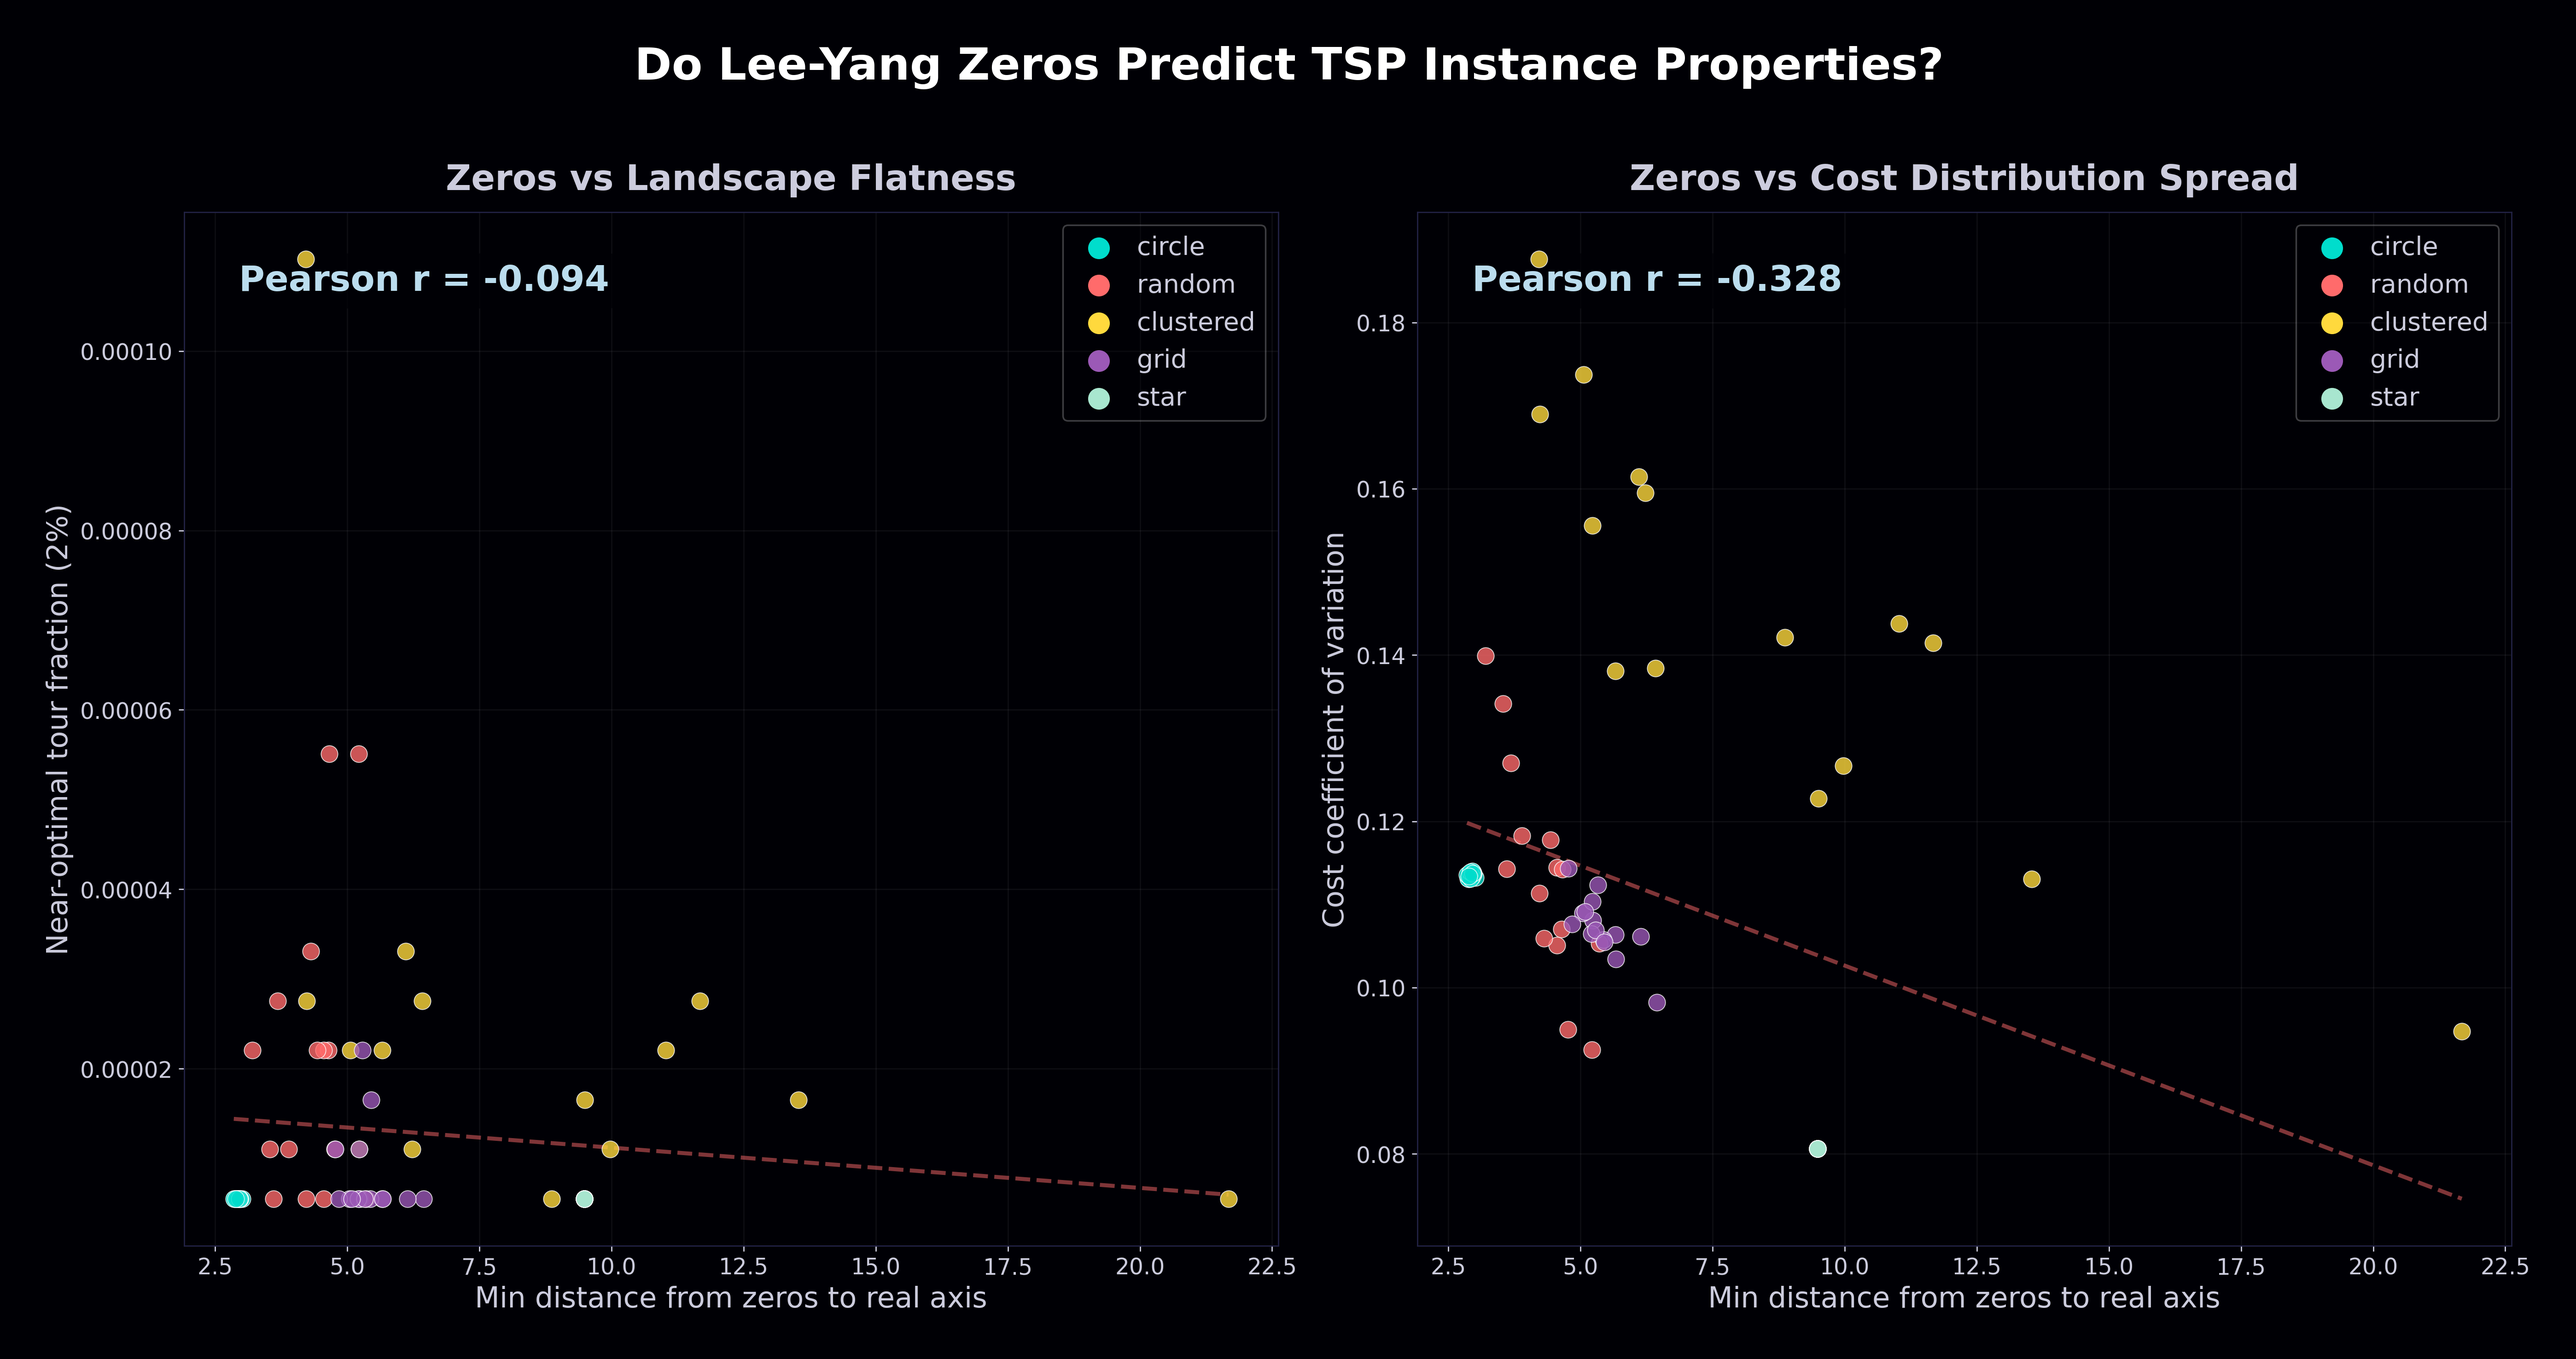
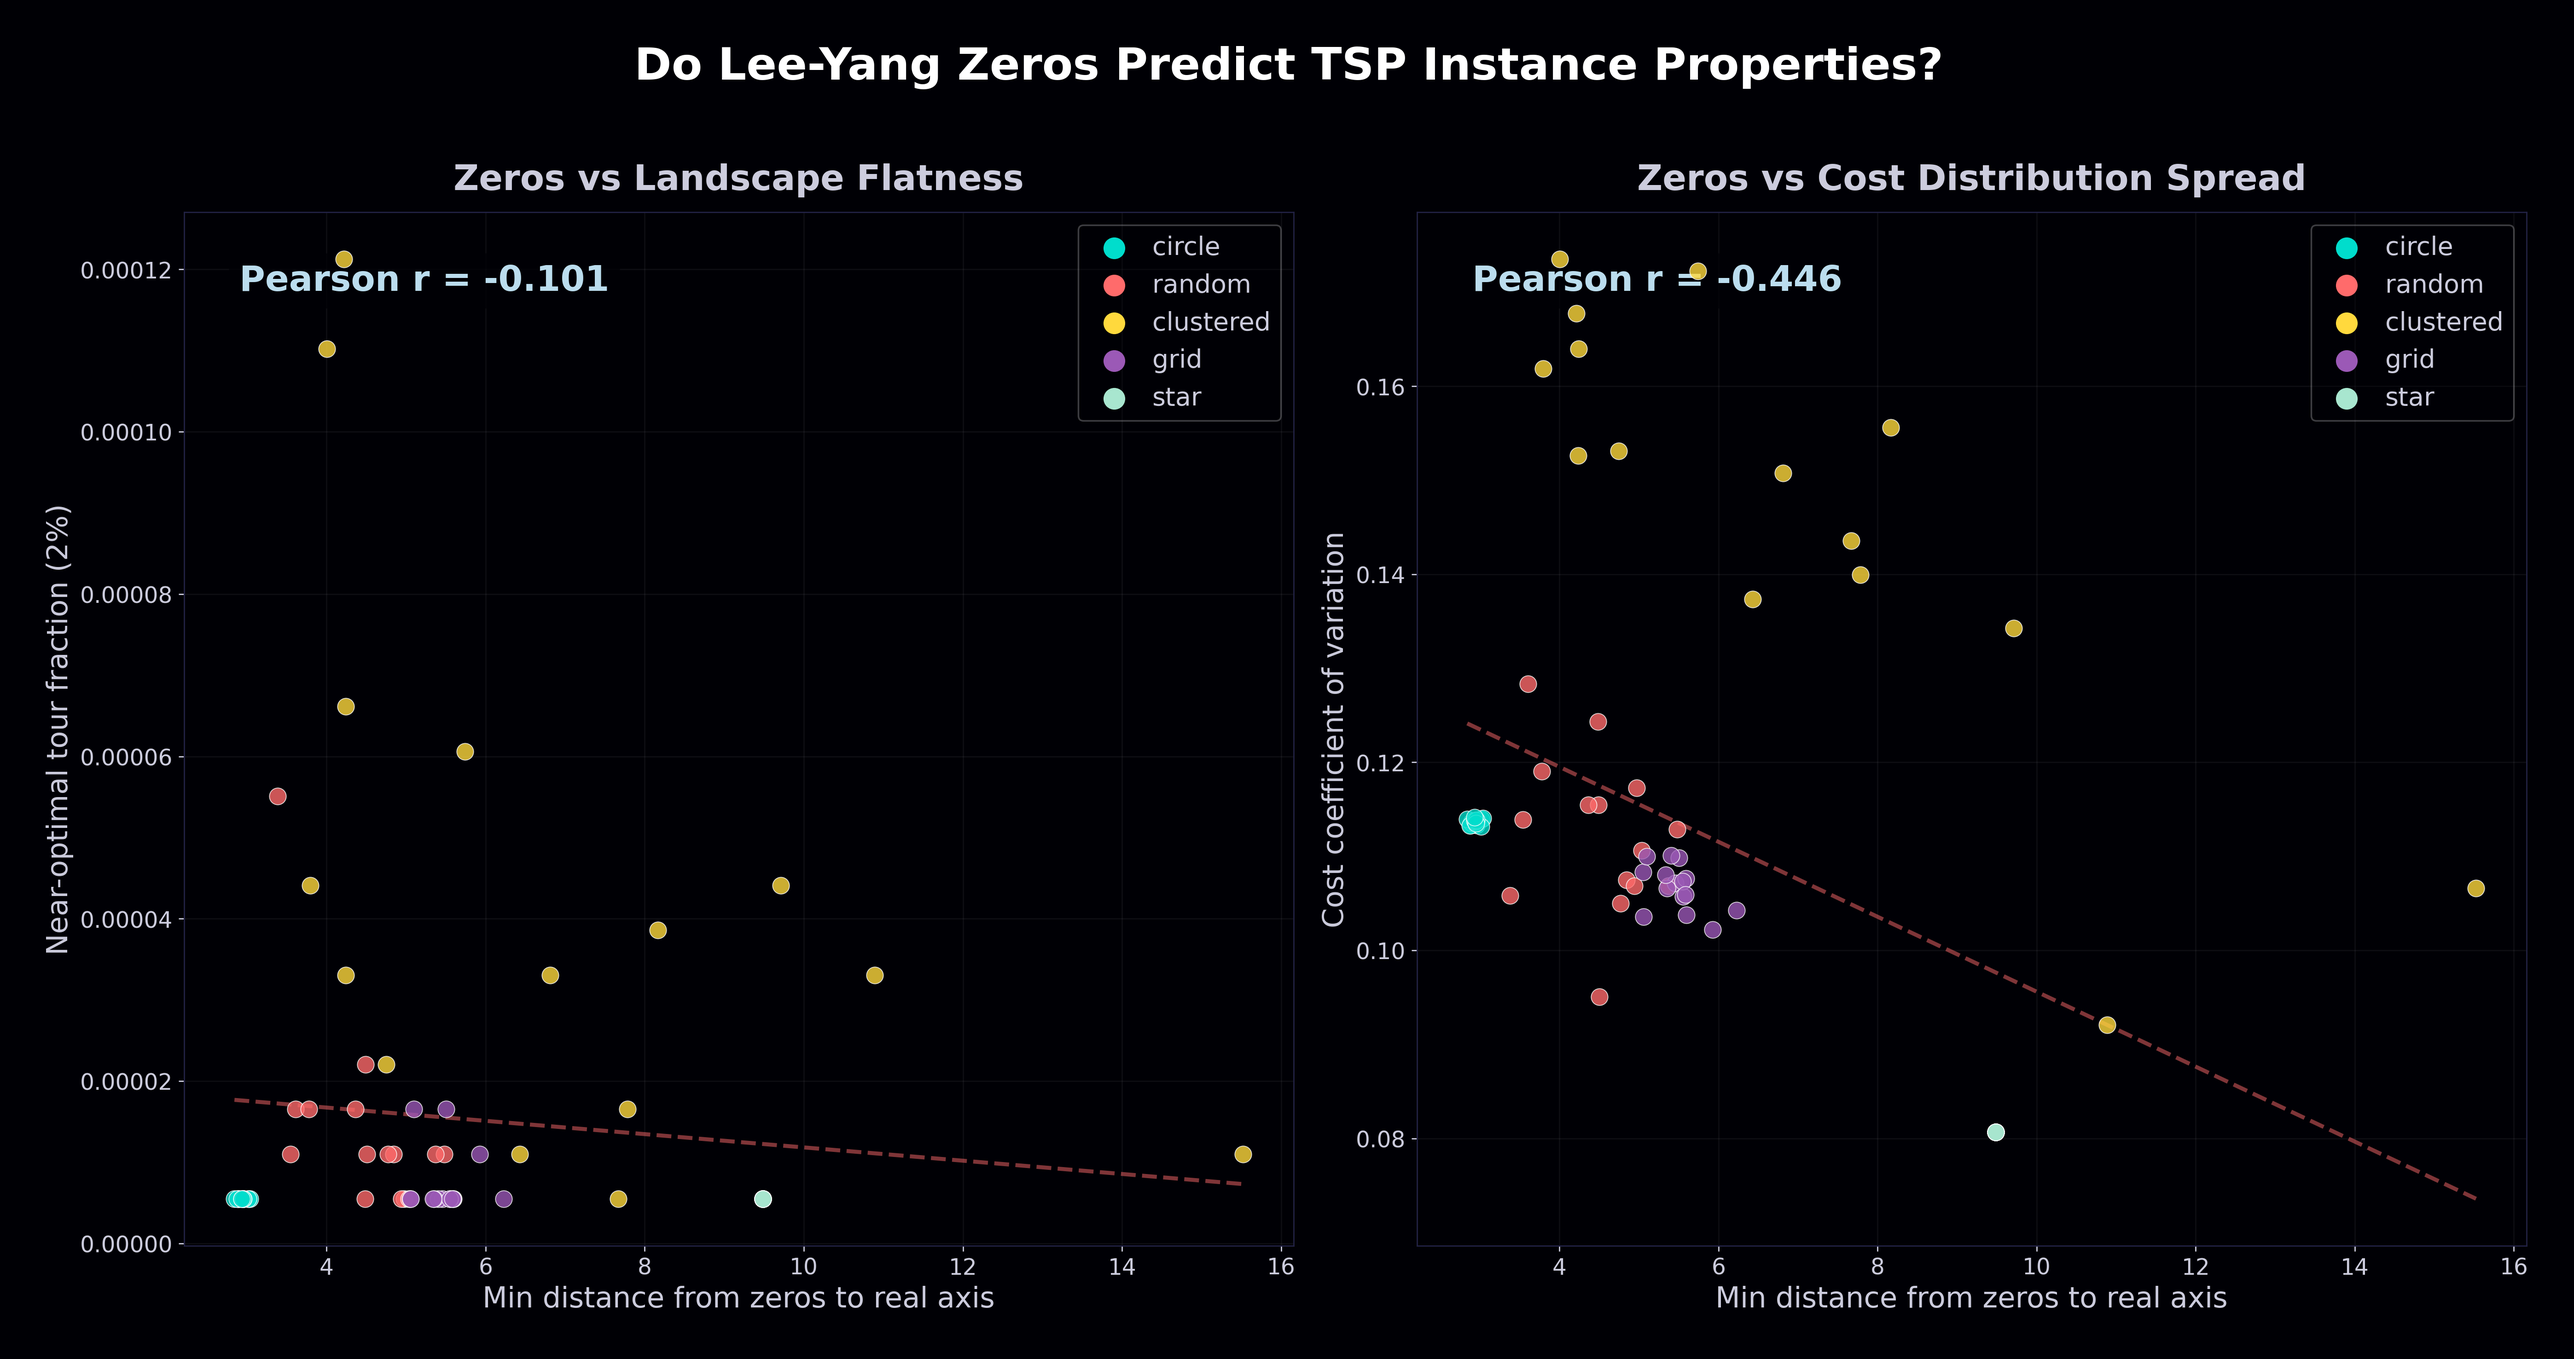
Update images with improved label sizes and layout
Correlation and null model images regenerated with larger fonts.
Null model layout changed from 1x5 strip to 3+2 grid for readability.

diff --git a/run_final.py b/run_final.py
@@ -521,7 +521,7 @@ def null_comparison_plot(results):
     # Use a 2-row layout: 3 on top, 2 on bottom (centered)
     # This gives each panel much more room than a 1x5 strip
     fig = plt.figure(figsize=(22, 18))
-    gs = fig.add_gridspec(2, 6, hspace=0.22, wspace=0.25)
+    gs = fig.add_gridspec(2, 6, hspace=0.30, wspace=0.30)
 
     # Top row: 3 panels spanning 2 columns each
     ax_positions = [
@@ -541,9 +541,11 @@ def null_comparison_plot(results):
         log_mag_plot(Z, extent, ax, zeros=zeros, vmin=vmin, vmax=vmax)
         ax.set_title(name, fontsize=WIDE_PANEL_TITLE, fontweight="bold", pad=12)
         nz = len(zeros)
-        ax.text(0.5, -0.10, f"{nz} zeros  |  min|Im|={md:.2f}",
-                transform=ax.transAxes, ha="center", fontsize=WIDE_ANNOTATION,
-                color="#99aabb")
+        # Place zero info inside the panel (top-left) to avoid overlap with axis labels
+        ax.text(0.03, 0.96, f"{nz} zeros\nmin|Im|={md:.2f}",
+                transform=ax.transAxes, ha="left", va="top", fontsize=WIDE_ANNOTATION,
+                color="#bbddee",
+                bbox=dict(boxstyle="round,pad=0.3", facecolor=BG, alpha=0.7, edgecolor="none"))
         ax.set_ylabel(r"Im($\beta$)", fontsize=WIDE_AXIS_LABEL)
         ax.set_xlabel(r"Re($\beta$)", fontsize=WIDE_AXIS_LABEL)
 
